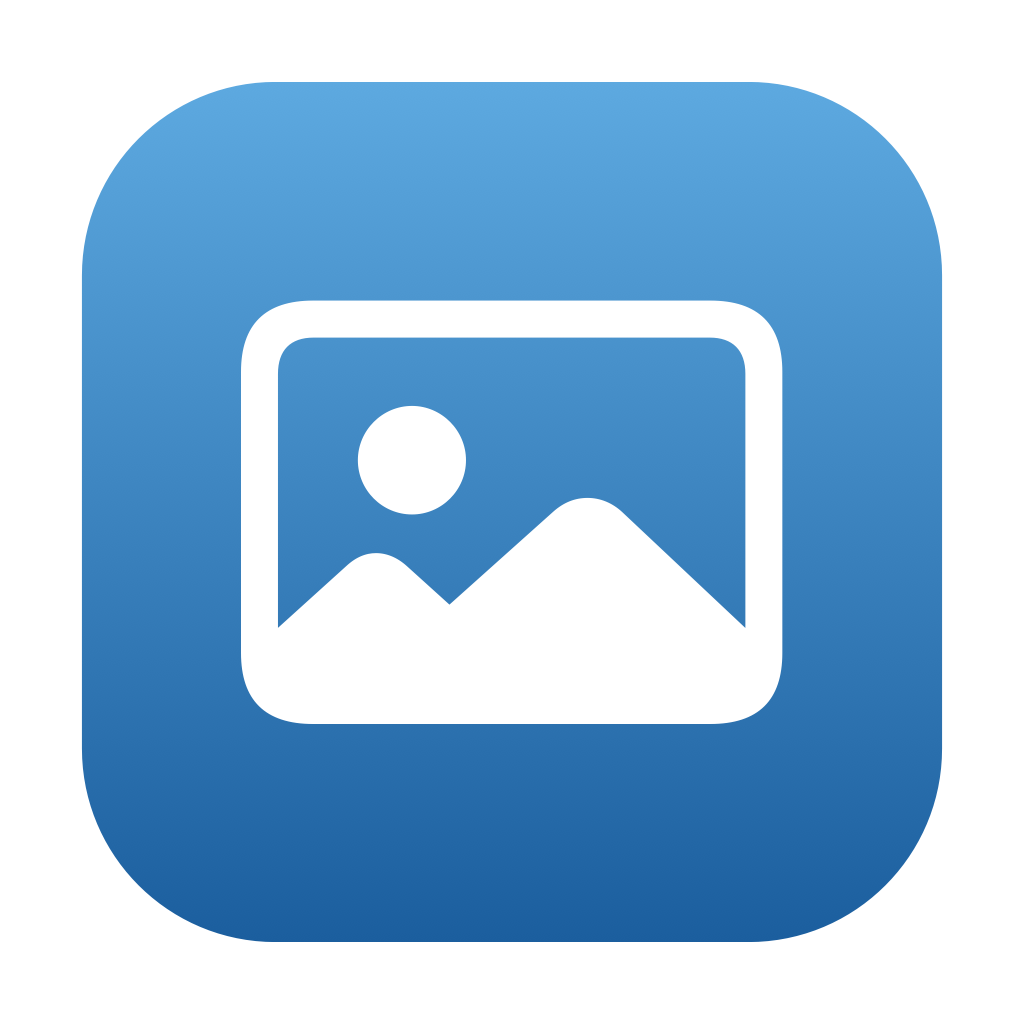
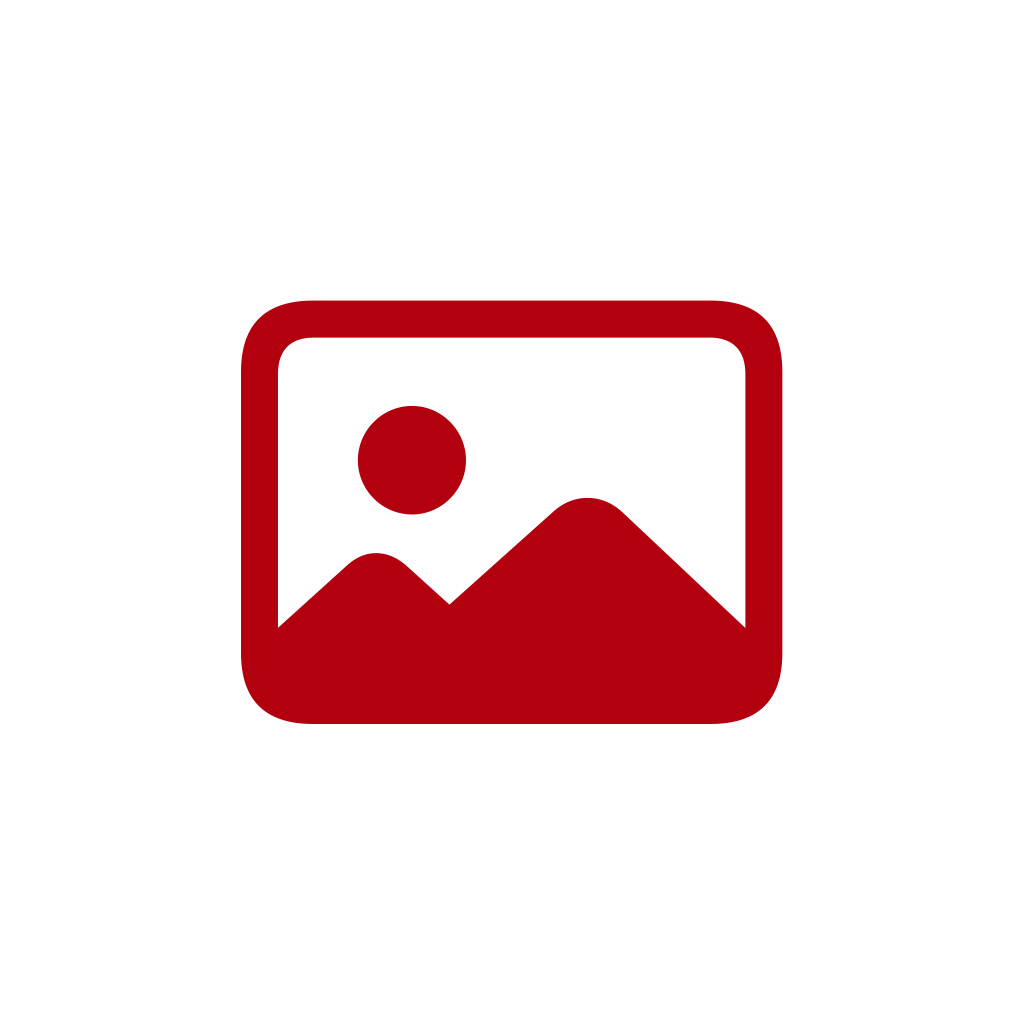
MyMusic/MyTube/MyGallery のアイコンを白背景+濃い赤シルエットに統一
MyGames と同じ「白い角丸スクエア + 単色シルエット」構成に揃えた。モチーフは
各アプリのまま(音符/再生ボタン/写真フレーム)で、色は MyGames と共通の
濃い赤 #B30010。従来の色付きグラデーション背景 + 白シルエットは廃止。

diff --git a/mygallery/make-icon.swift b/mygallery/make-icon.swift
@@ -1,12 +1,14 @@
 #!/usr/bin/env swift
-// 薄い青グラデーション背景(downloader/organizerと共通)に白い写真フレーム(SF Symbol "photo")の
-// シルエットを描いたマスターアイコンを生成する。build.sh が Resources/AppIcon.png から
-// iconset/icns をビルド時に都度生成するので、ここでは 1024x1024 の master PNG のみを出力する。
+// 白背景に濃い赤の写真フレーム(SF Symbol "photo")のシルエットを描いたマスターアイコンを
+// 生成する。mygames と同じ「白背景 + 単色シルエット」構成で、シルエット色(黒みのある濃い赤)は
+// mygames/mytube/mymusic と共通(自作アプリでファミリー感を揃えている)。build.sh が
+// Resources/AppIcon.png から iconset/icns をビルド時に都度生成するので、
+// ここでは 1024x1024 の master PNG のみを出力する。
 //   実行: swift make-icon.swift   →  Resources/AppIcon.png を出力
 import AppKit
 
-let greenTop = NSColor(srgbRed: 0.365, green: 0.663, blue: 0.878, alpha: 1) // #5DA9E0 (downloader/organizerと共通)
-let greenBottom = NSColor(srgbRed: 0.106, green: 0.369, blue: 0.620, alpha: 1) // #1B5E9E (downloader/organizerと共通)
+let bgWhite = NSColor.white
+let silhouetteRed = NSColor(srgbRed: 0.70, green: 0.0, blue: 0.06, alpha: 1) // 黒みを足した濃い赤 (mygames と共通)
 
 func renderIcon(pixels: Int) -> NSBitmapImageRep {
     let rep = NSBitmapImageRep(
@@ -25,10 +27,10 @@ func renderIcon(pixels: Int) -> NSBitmapImageRep {
     let radius = rect.width * 0.225
     let path = NSBezierPath(roundedRect: rect, xRadius: radius, yRadius: radius)
 
-    let gradient = NSGradient(colors: [greenTop, greenBottom])!
-    gradient.draw(in: path, angle: -90)
+    bgWhite.setFill()
+    path.fill()
 
-    // 中央に白い写真(山と太陽の入った額縁)アイコン(SF Symbol "photo")のシルエット
+    // 中央に赤い写真(山と太陽の入った額縁)アイコン(SF Symbol "photo")のシルエット
     let glyphSize = s * 0.46
     let config = NSImage.SymbolConfiguration(pointSize: glyphSize, weight: .regular)
     guard let symbol = NSImage(systemSymbolName: "photo", accessibilityDescription: nil)?
@@ -43,7 +45,7 @@ func renderIcon(pixels: Int) -> NSBitmapImageRep {
     cg.beginTransparencyLayer(auxiliaryInfo: nil)
     symbol.draw(at: origin, from: .zero, operation: .sourceOver, fraction: 1.0)
     cg.setBlendMode(.sourceIn)
-    cg.setFillColor(NSColor.white.cgColor)
+    cg.setFillColor(silhouetteRed.cgColor)
     cg.fill(CGRect(x: 0, y: 0, width: s, height: s))
     cg.endTransparencyLayer()
     cg.restoreGState()

diff --git a/mymusic/make-icon.swift b/mymusic/make-icon.swift
@@ -1,10 +1,12 @@
 #!/usr/bin/env swift
-// 紫グラデーション背景に音符(八分音符)を描いた macOS アプリアイコンを生成する。
+// 白背景に濃い赤のシルエットで音符(八分音符)を描いた macOS アプリアイコンを生成する。
+// mygames と同じ「白背景 + 単色シルエット」構成で、シルエット色(黒みのある濃い赤)は
+// mygames/mytube/mygallery と共通(自作アプリでファミリー感を揃えている)。
 //   実行: swift make-icon.swift   →  AppIcon.icns と AppIcon.iconset/ を出力
 import AppKit
 
-let purpleTop = NSColor(srgbRed: 0.62, green: 0.38, blue: 0.93, alpha: 1)    // #9E61ED
-let purpleBottom = NSColor(srgbRed: 0.35, green: 0.16, blue: 0.66, alpha: 1) // #5929A8
+let bgWhite = NSColor.white
+let silhouetteRed = NSColor(srgbRed: 0.70, green: 0.0, blue: 0.06, alpha: 1) // 黒みを足した濃い赤 (mygames と共通)
 
 func renderIcon(pixels: Int) -> NSBitmapImageRep {
     let rep = NSBitmapImageRep(
@@ -23,19 +25,20 @@ func renderIcon(pixels: Int) -> NSBitmapImageRep {
     let radius = rect.width * 0.225
     let path = NSBezierPath(roundedRect: rect, xRadius: radius, yRadius: radius)
 
-    let gradient = NSGradient(colors: [purpleTop, purpleBottom])!
-    gradient.draw(in: path, angle: -90)
+    bgWhite.setFill()
+    path.fill()
 
     // 八分音符: 2つの符頭 + 符幹 + 連桁。
-    NSColor.white.setFill()
+    silhouetteRed.setFill()
 
     let headW = s * 0.17
     let headH = s * 0.13
     let stemW = s * 0.035
     let stemH = s * 0.40
 
-    let leftHeadCenter = NSPoint(x: rect.midX - s * 0.10, y: rect.midY - s * 0.10)
-    let rightHeadCenter = NSPoint(x: rect.midX + s * 0.14, y: rect.midY - s * 0.02)
+    // 符幹が上へ伸びる分を見込んで符頭を下寄りに置き、シルエット全体の重心をアイコン中央に合わせる。
+    let leftHeadCenter = NSPoint(x: rect.midX - s * 0.12, y: rect.midY - s * 0.21)
+    let rightHeadCenter = NSPoint(x: rect.midX + s * 0.12, y: rect.midY - s * 0.13)
 
     func drawHead(at center: NSPoint) {
         let headRect = NSRect(x: center.x - headW / 2, y: center.y - headH / 2, width: headW, height: headH)

diff --git a/mytube/make-icon.swift b/mytube/make-icon.swift
@@ -1,11 +1,13 @@
 #!/usr/bin/env swift
-// 薄い青の角丸スクエア(downloader/organizer/photo-galleryと共通)に白い再生ボタン(台形)を描き、
-// 中央の三角形は背景色でくり抜いた macOS アプリアイコンを生成する。
+// 白い角丸スクエアに濃い赤の再生ボタン(プレート)を描き、中央の三角形は背景色(白)で
+// くり抜いた macOS アプリアイコンを生成する。
+// mygames と同じ「白背景 + 単色シルエット」構成で、シルエット色(黒みのある濃い赤)は
+// mygames/mymusic/mygallery と共通(自作アプリでファミリー感を揃えている)。
 //   実行: swift make-icon.swift   →  AppIcon.icns と AppIcon.iconset/ を出力
 import AppKit
 
-let bgTop = NSColor(srgbRed: 0.365, green: 0.663, blue: 0.878, alpha: 1)    // #5DA9E0
-let bgBottom = NSColor(srgbRed: 0.106, green: 0.369, blue: 0.620, alpha: 1) // #1B5E9E
+let bgWhite = NSColor.white
+let silhouetteRed = NSColor(srgbRed: 0.70, green: 0.0, blue: 0.06, alpha: 1) // 黒みを足した濃い赤 (mygames と共通)
 
 func renderIcon(pixels: Int) -> NSBitmapImageRep {
     let rep = NSBitmapImageRep(
@@ -24,10 +26,10 @@ func renderIcon(pixels: Int) -> NSBitmapImageRep {
     let radius = rect.width * 0.225
     let path = NSBezierPath(roundedRect: rect, xRadius: radius, yRadius: radius)
 
-    let gradient = NSGradient(colors: [bgTop, bgBottom])!
-    gradient.draw(in: path, angle: -90)
+    bgWhite.setFill()
+    path.fill()
 
-    // 中央に白い角丸長方形(再生ボタンのプレート)。中の三角形は背景色でくり抜く。
+    // 中央に赤い角丸長方形(再生ボタンのプレート)。中の三角形は背景色(白)でくり抜く。
     let plateW = rect.width * 0.62
     let plateH = rect.height * 0.44
     let plateRect = NSRect(x: rect.midX - plateW / 2, y: rect.midY - plateH / 2, width: plateW, height: plateH)
@@ -46,7 +48,7 @@ func renderIcon(pixels: Int) -> NSBitmapImageRep {
 
     plate.append(tri)
     plate.windingRule = .evenOdd
-    NSColor.white.setFill()
+    silhouetteRed.setFill()
     plate.fill()
 
     NSGraphicsContext.restoreGraphicsState()
